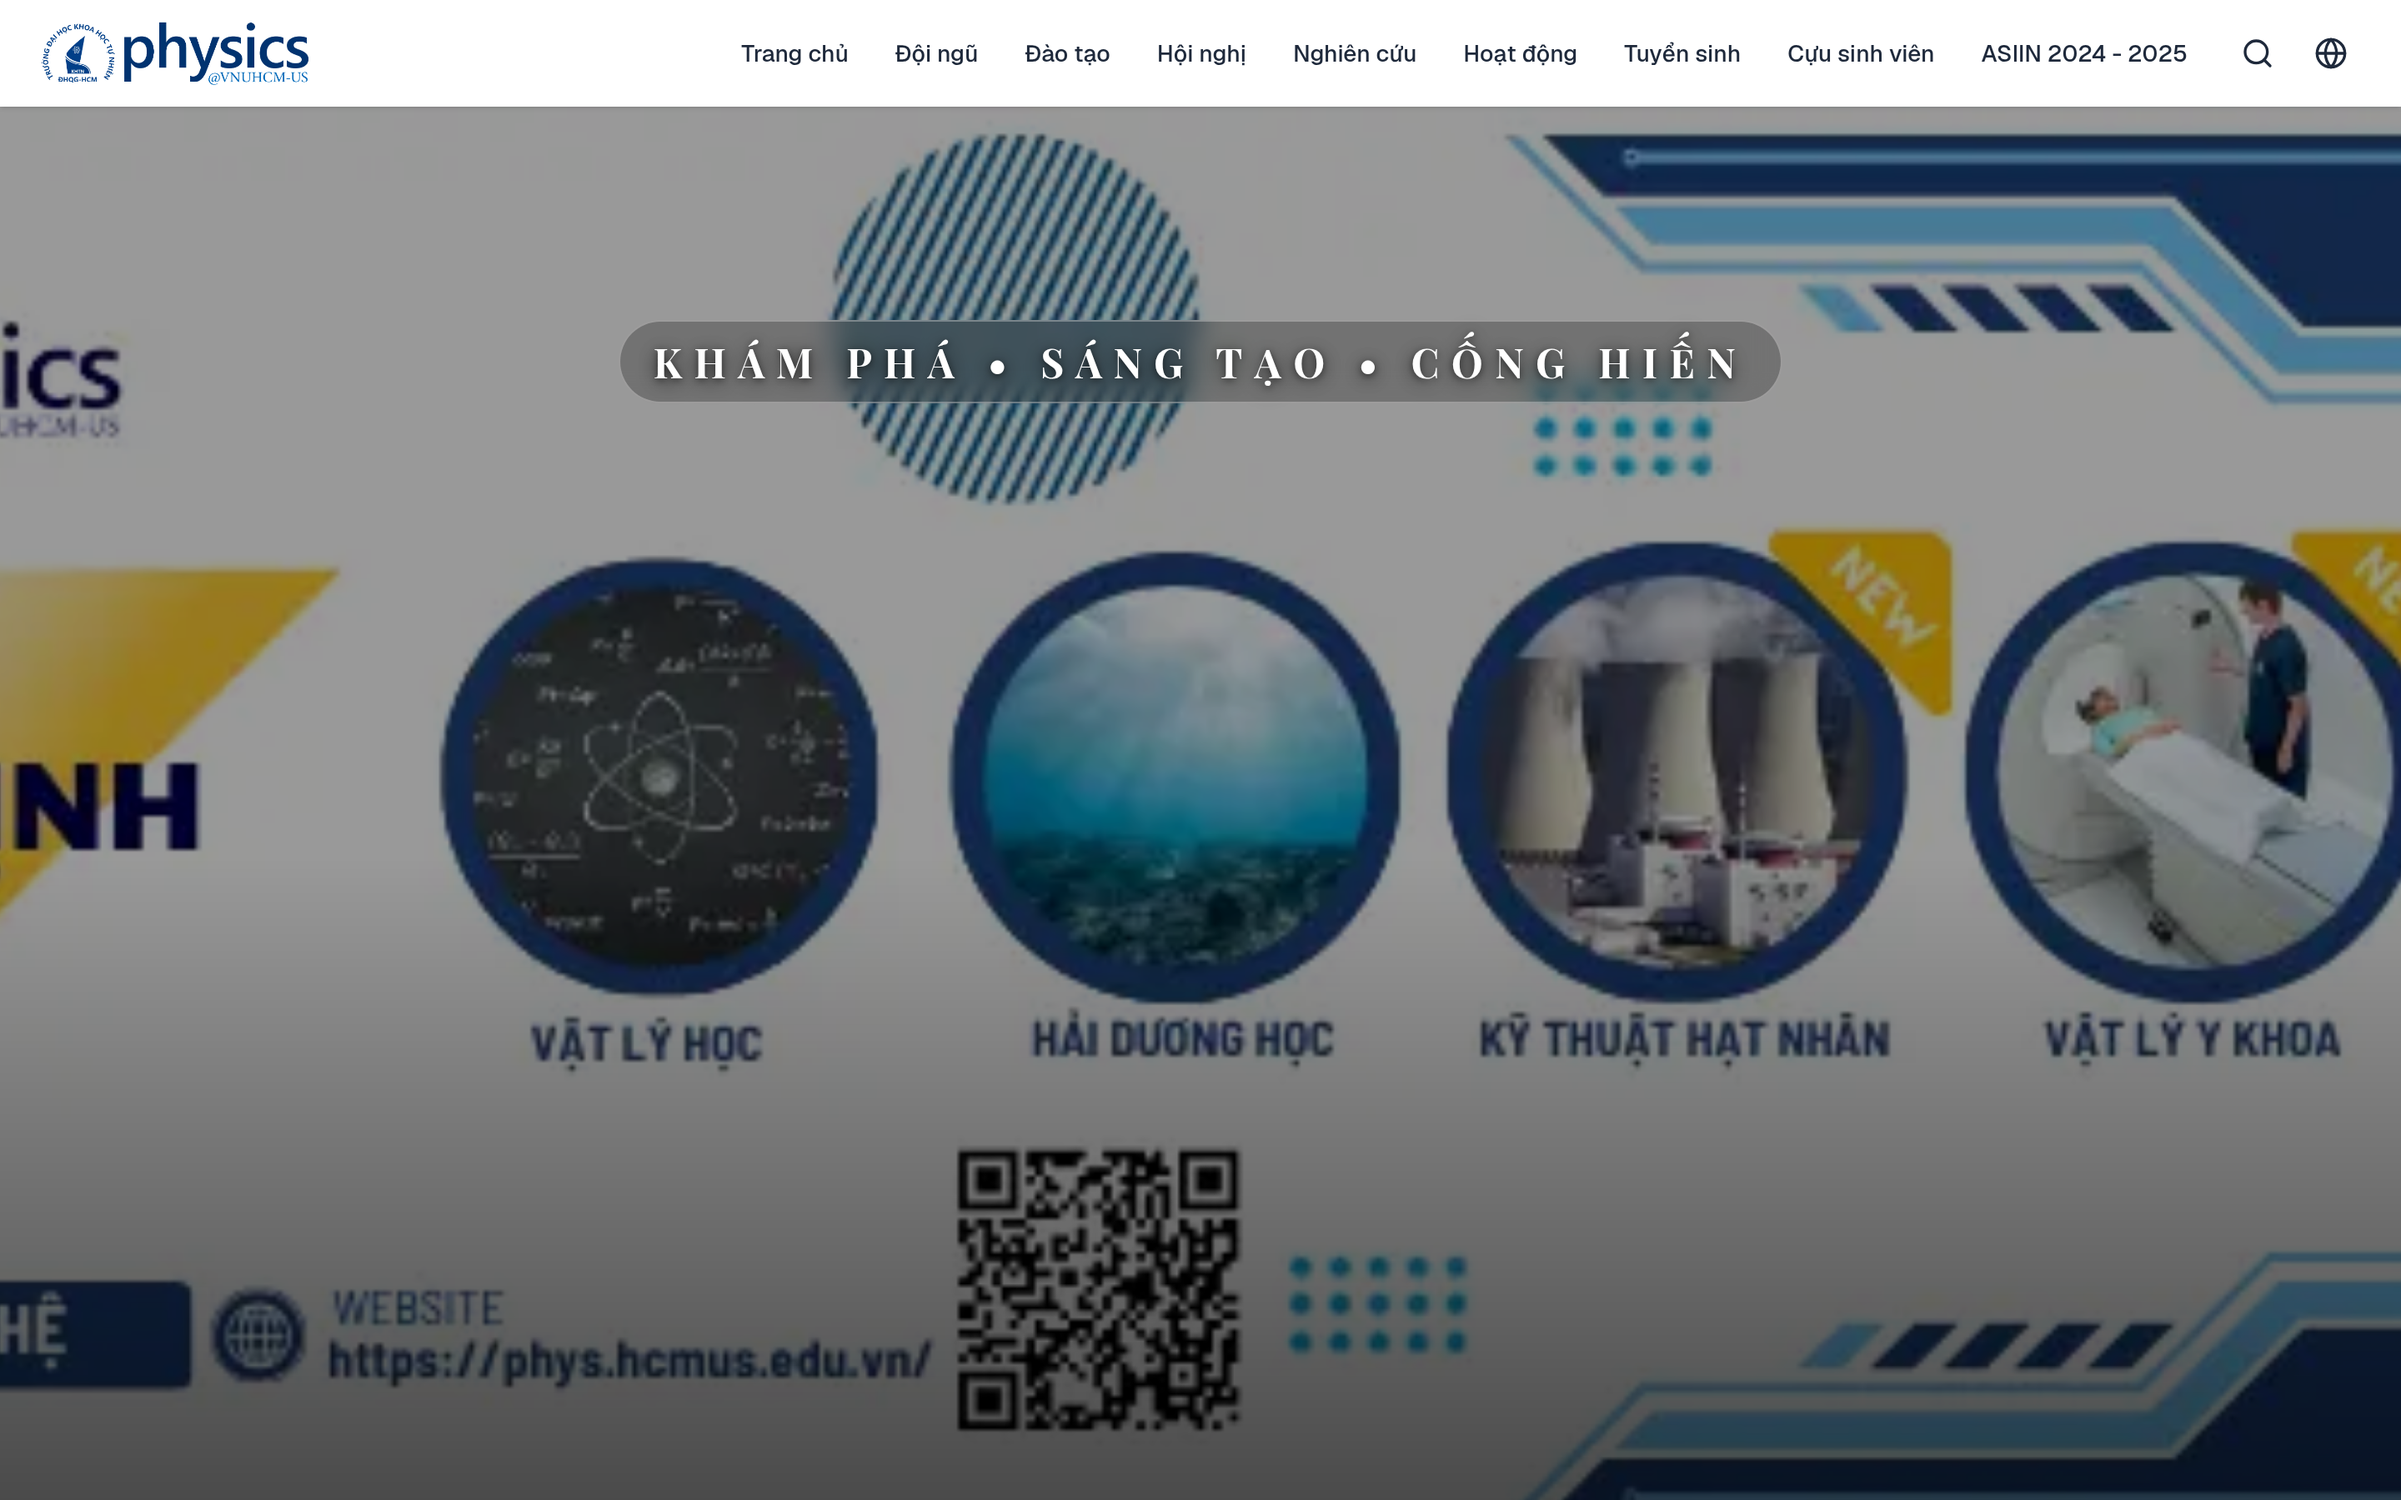
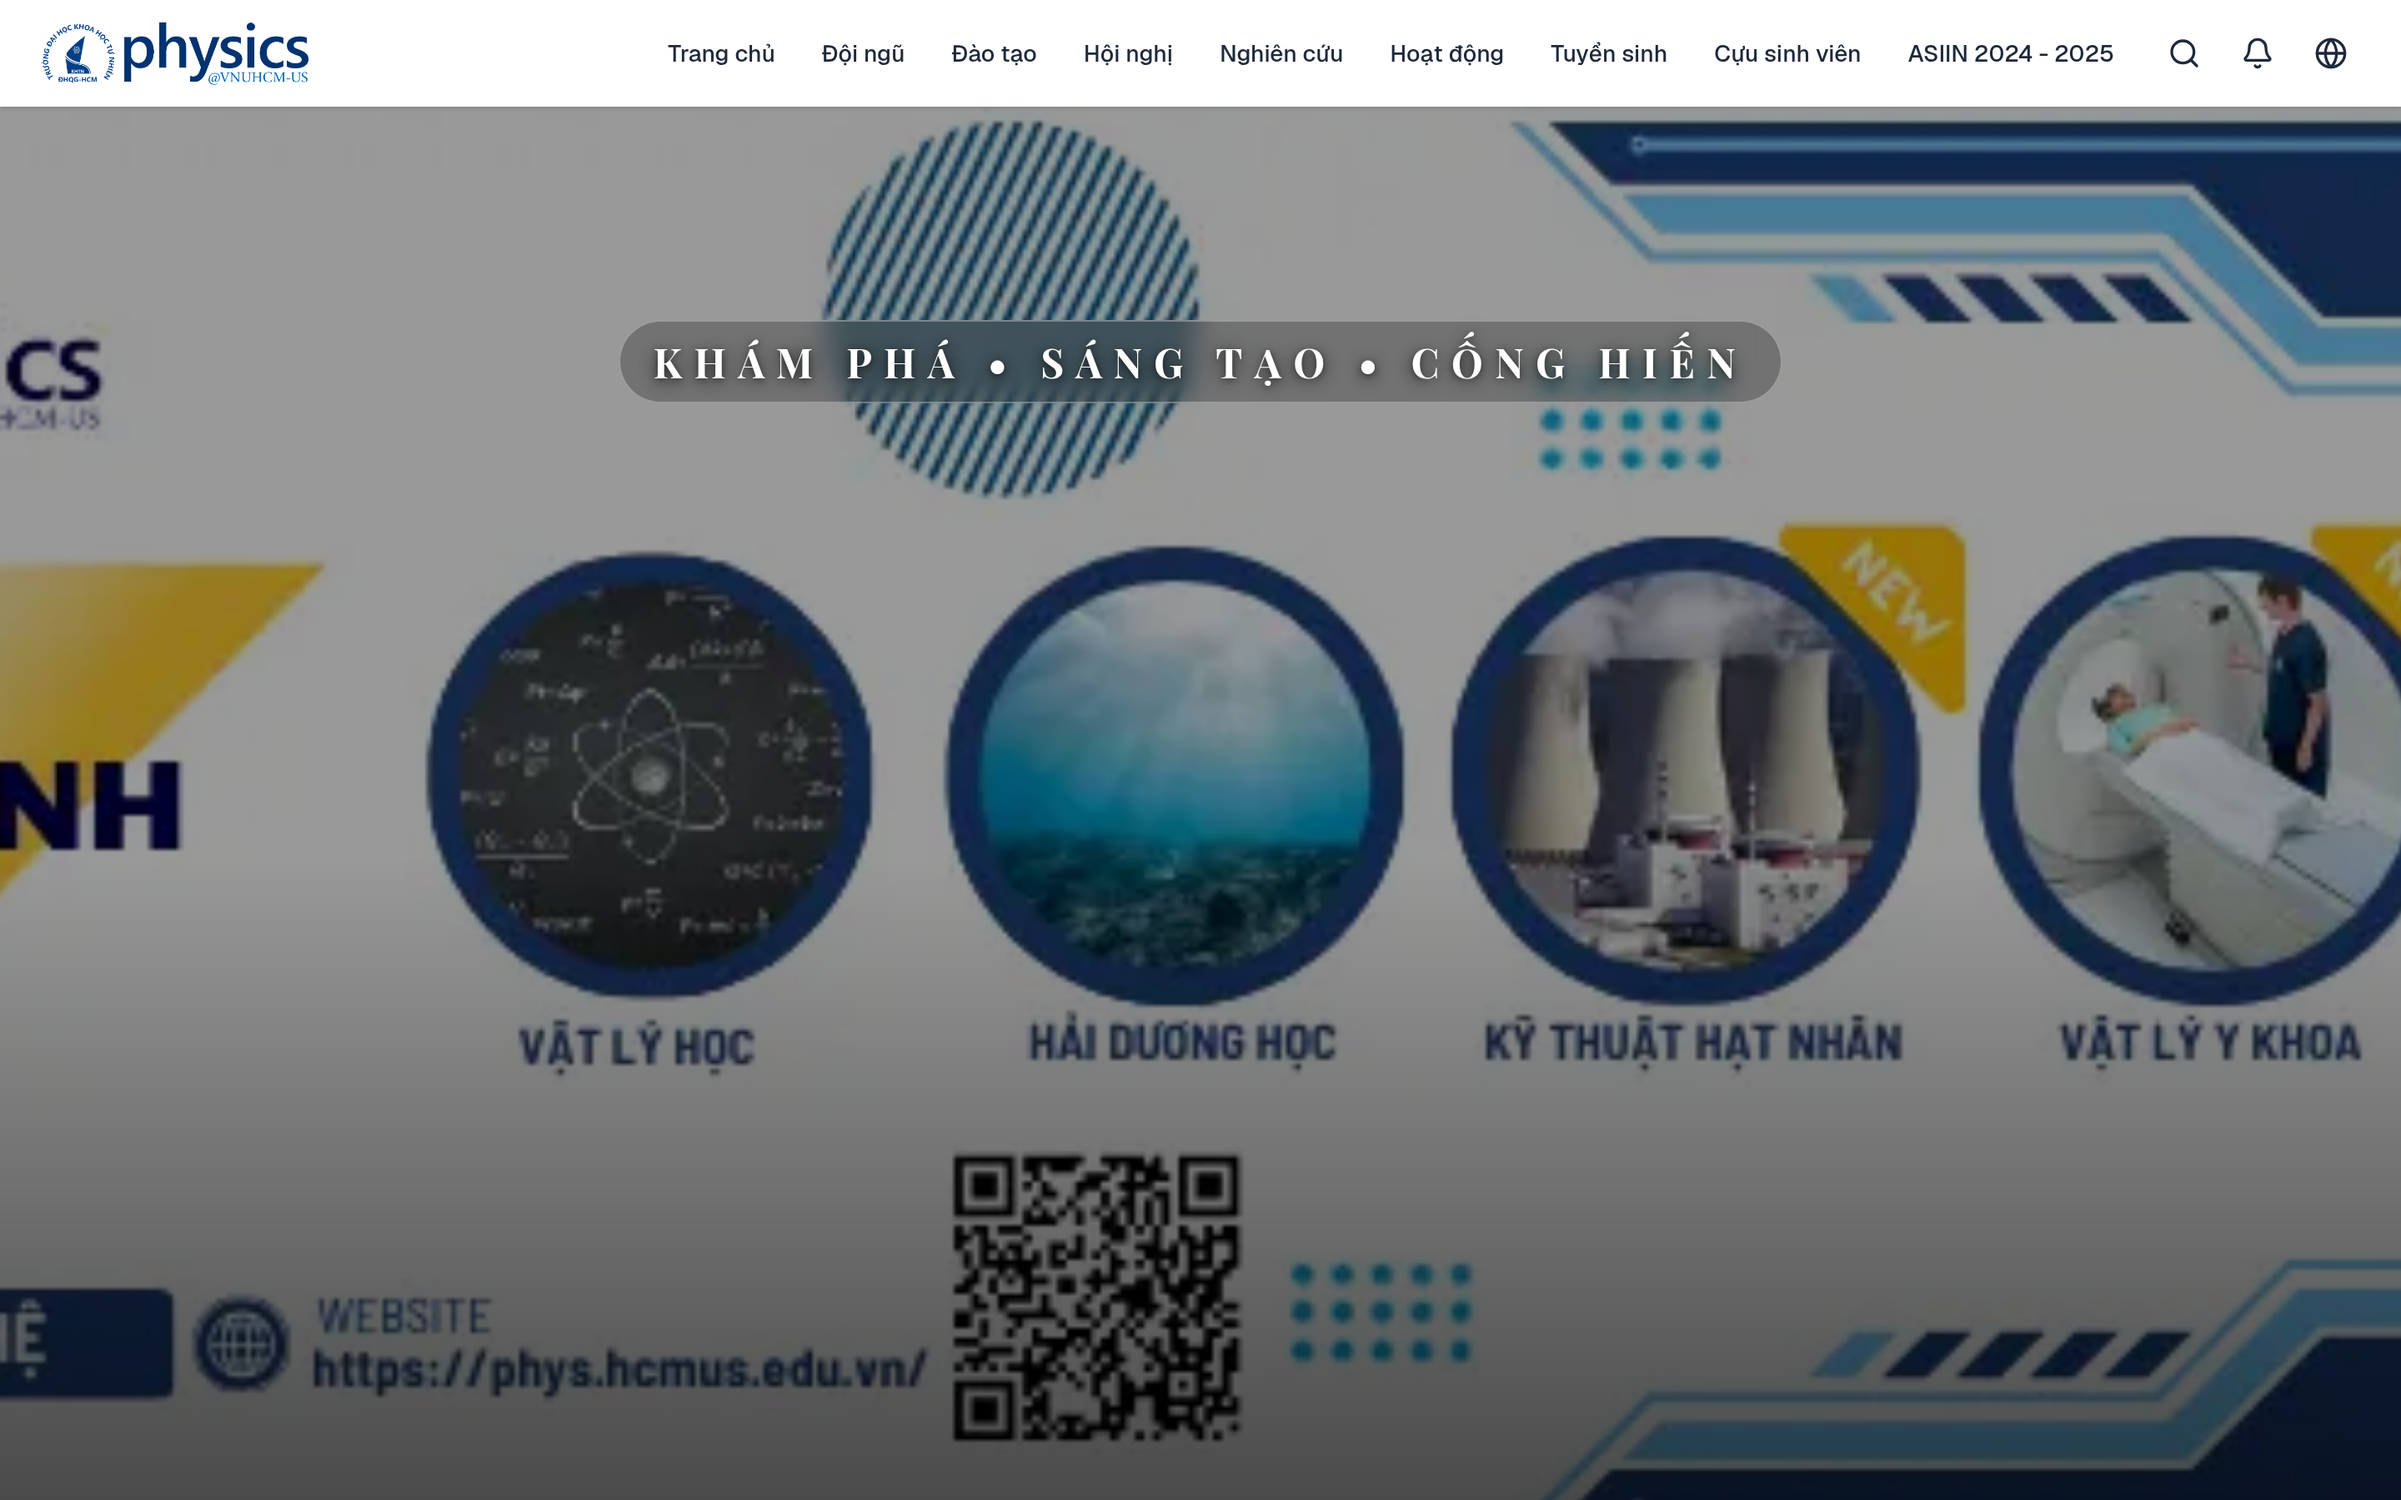
docs(kltn): refresh public-interface screenshot (Hinh 3.9) + describe header notification bell
New /vi homepage capture (correct Geist fonts, notification bell in header) swapped
into media/image9.png in place; 3.6.3 rewords the in-app notification to the header
bell (follow topics -> badge + auto-open on new posts, browser-side, no email/login).

diff --git a/thesis/03-chuong-3-thiet-ke-va-hien-thuc.md b/thesis/03-chuong-3-thiet-ke-va-hien-thuc.md
@@ -169,7 +169,7 @@ Màn hình thứ nhất là trình soạn bài viết: các trường song ngữ
 
 ### 3.6.3 Giao diện công khai
 
-Trang công khai kết xuất từ ảnh chụp bố cục đã xuất bản với bộ thành phần hiển thị tương ứng. Trang chủ gồm khối hero, các khối tin tức – sự kiện tự cập nhật, khối giới thiệu và chân trang. Hệ thống định tuyến song ngữ đặt tiền tố ngôn ngữ (vi hoặc en) trên mọi URL; thanh điều hướng tái tạo đúng cấu trúc menu chín mục của website cũ (mục 3.7.5). Mỗi bộ môn có trang riêng tại địa chỉ mang tên bộ môn, và các bài viết của bộ môn nằm dưới chuyên mục tin tức của địa chỉ đó. Trang học bổng minh họa khả năng lắp ghép của bộ thành phần: đầu trang và chân trang đồng bộ tự động từ trang chủ, phần thân là khối danh sách học bổng có ô tìm kiếm và phân trang lấy dữ liệu trực tiếp từ chuyên mục tương ứng. Trang này dùng cơ chế thông báo trong ứng dụng thay cho thu thập email: khách truy cập bấm nhận thông báo cho thẻ học bổng, và ở lần ghé sau một dải thông báo hiện ngay trên trang nếu có bài mới thuộc thẻ này — trạng thái theo dõi lưu phía trình duyệt của khách, hệ thống không lưu thông tin cá nhân của người xem.
+Trang công khai kết xuất từ ảnh chụp bố cục đã xuất bản với bộ thành phần hiển thị tương ứng. Trang chủ gồm khối hero, các khối tin tức – sự kiện tự cập nhật, khối giới thiệu và chân trang. Hệ thống định tuyến song ngữ đặt tiền tố ngôn ngữ (vi hoặc en) trên mọi URL; thanh điều hướng tái tạo đúng cấu trúc menu chín mục của website cũ (mục 3.7.5). Mỗi bộ môn có trang riêng tại địa chỉ mang tên bộ môn, và các bài viết của bộ môn nằm dưới chuyên mục tin tức của địa chỉ đó. Trang học bổng minh họa khả năng lắp ghép của bộ thành phần: đầu trang và chân trang đồng bộ tự động từ trang chủ, phần thân là khối danh sách học bổng có ô tìm kiếm và phân trang lấy dữ liệu trực tiếp từ chuyên mục tương ứng. Thay cho việc thu thập email, hệ thống dùng cơ chế thông báo trong ứng dụng: trên thanh điều hướng có biểu tượng chuông cho phép khách theo dõi từng chủ đề (tuyển dụng, học bổng, sự kiện và các chuyên mục khác). Khi có bài mới thuộc chủ đề đã theo dõi, lần truy cập kế tiếp chuông hiển thị số lượng thông báo và tự mở danh sách bài mới; khách bấm vào để đọc hoặc đánh dấu đã xem. Toàn bộ trạng thái theo dõi được lưu ở phía trình duyệt nên không cần đăng nhập hay cung cấp email, và hệ thống không lưu thông tin cá nhân của người xem.
 
 【HÌNH 3.9 — Ảnh chụp màn hình trang chủ công khai /vi và một trang bài viết】
 
